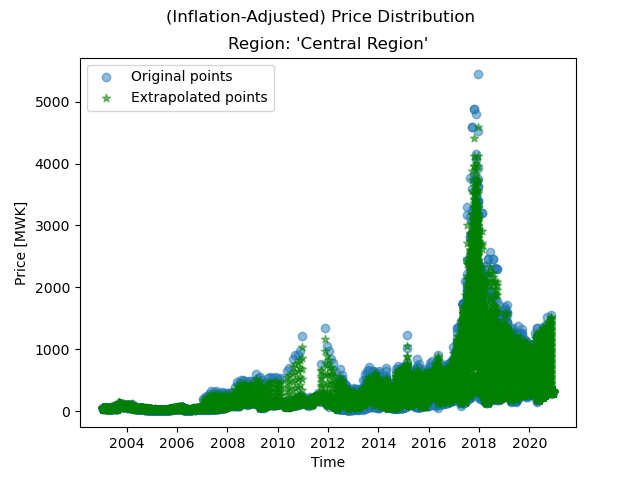
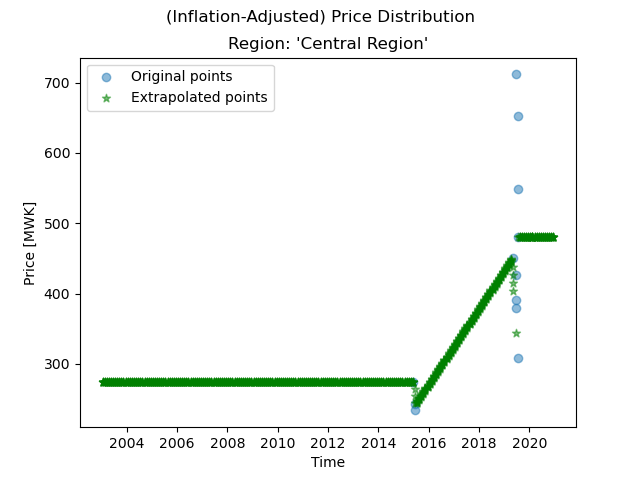
Preprocessing per commodity - but results not yet written combined as excel

diff --git a/src/dataset_creation.py b/src/dataset_creation.py
@@ -143,45 +143,68 @@ def create_dataset(country, dropped_commodities):
     # 65 (30%), 60 (27%, 30% also for central region)
     cut_off_percentile = 60
 
-    # for commodity in df_final.Commodity.unique():
+    df_commodities_dict = {}
+
+    for commodity in df_final.Commodity.unique():
+        # Extract df for commodity
+        df_final_commodity = df_final[df_final.Commodity == commodity]
+
+        # calculate summary statistics PER commodity
+        print(
+            "\n# ------------------------------------------------------------------------------------------------------\n"
+            f"# [{commodity}] PREPROC: Write summary statistics 2"
+            "\n# ------------------------------------------------------------------------------------------------------\n")
+        preproc.summary_stats_prices_droughts(df_final=df_final_commodity, excel_output_extension=f"-preproc-2-{commodity}")
+
+        print("\n# ------------------------------------------------------------------------------------------------------\n"
+              f"# [{commodity}] PREPROC: Cut off missing values after certain percentile"
+              "\n# ------------------------------------------------------------------------------------------------------\n")
+
+        # Cut all regions with missing >= cut_off_percentile of missing values
+        df_final_commodity = preproc.drop_missing_decile_per_region_prices(
+            path_excel_sum_stats=f"../output/{country}/summary-statistics/{country}-"
+                                 f"sum-stats-preproc-2-{commodity}.xlsx",
+            df_final=df_final_commodity,
+            cut_off_percentile=cut_off_percentile, excel_output_extension=f"-{cut_off_percentile}p")
+
+        print("\n# ------------------------------------------------------------------------------------------------------\n"
+              f"# [{commodity}] PREPROC: Write summary statistics 3"
+              "\n# ------------------------------------------------------------------------------------------------------\n")
+
+        # Write sum stats
+        preproc.summary_stats_prices_droughts(df_final=df_final_commodity, excel_output_extension=
+                f"-preproc-3-{cut_off_percentile}p-{commodity}")
+
+        print("\n# ------------------------------------------------------------------------------------------------------\n"
+              f"# [{commodity}] PREPROC: PHASE 2.2 (PRICES) - EXTRAPOLATION"
+              "\n# ------------------------------------------------------------------------------------------------------\n")
+
+        # EXTRAPOLATE REGIONAL PATTERNS
+        # doesn't extrapolate tails for interpolation method: cubic
+        df_final_commodity = preproc.extrapolate_prices_regional_patterns(df_final=df_final_commodity,
+                                                                          interpolation_method="linear")
+
+        # add result to dictionary
+        df_commodities_dict[commodity] = df_final_commodity
+
+        print("\n# ------------------------------------------------------------------------------------------------------\n"
+              f"# [{commodity}] PREPROC: Write summary statistics 4"
+              "\n# ------------------------------------------------------------------------------------------------------\n")
+
+        # Write sum stats
+        preproc.summary_stats_prices_droughts(df_final=df_final_commodity, excel_output_extension=f"-preproc-4"
+                                                                                                  f"-{cut_off_percentile}p"
+                                                                                                  f"-{commodity}")
 
     print("\n# ------------------------------------------------------------------------------------------------------\n"
-          "# PREPROC: Cut off missing values after certain percentile"
+          "# PREPROC: Combining all results as excel"
           "\n# ------------------------------------------------------------------------------------------------------\n")
-
-    # Cut all regions with missing >= cut_off_percentile of missing values
-    df_final = preproc.drop_missing_decile_per_region_prices(
-        path_excel_sum_stats=f"../output/{country}/summary-statistics/{country}-"
-                             f"sum-stats-preproc-2.xlsx",
-        df_final=df_final,
-        cut_off_percentile=cut_off_percentile, excel_output_extension=f"-{cut_off_percentile}p")
-
-    print("\n# ------------------------------------------------------------------------------------------------------\n"
-          "# PREPROC: Write summary statistics 3"
-          "\n# ------------------------------------------------------------------------------------------------------\n")
-
-    # Write sum stats
-    preproc.summary_stats_prices_droughts(df_final=df_final, excel_output_extension=f"-preproc-3-{cut_off_percentile}p")
-
-    print("\n# ------------------------------------------------------------------------------------------------------\n"
-          "# PREPROC: PHASE 2.2 (PRICES) - EXTRAPOLATION"
-          "\n# ------------------------------------------------------------------------------------------------------\n")
-
-    # EXTRAPOLATE REGIONAL PATTERNS
-    # doesn't extrapolate tails for interpolation method: cubic
-    df_final = preproc.extrapolate_prices_regional_patterns(df_final=df_final, interpolation_method="linear")
-
-    print("\n# ------------------------------------------------------------------------------------------------------\n"
-          "# PREPROC: Write summary statistics 4"
-          "\n# ------------------------------------------------------------------------------------------------------\n")
-
-    # Write sum stats
-    preproc.summary_stats_prices_droughts(df_final=df_final, excel_output_extension=f"-preproc-4-{cut_off_percentile}p")
 
     print("\n# ------------------------------------------------------------------------------------------------------\n"
           "# PREPROC: Writing Results as Excel"
           "\n# ------------------------------------------------------------------------------------------------------\n")
 
+    # TODO: change df_final: pass dictionary and write commodities in separate sheets in df_final
     preproc.write_preprocessing_results_to_excel(df_wfp=df_wfp, df_wfp_with_coords=df_wfp_with_coords,
                                                  df_spei=df_spei, df_final=df_final, df_drought=df_drought,
                                                  df_no_drought=df_no_drought)

diff --git a/src/preprocessing.py b/src/preprocessing.py
@@ -976,6 +976,12 @@ def extrapolate_prices_regional_patterns(df_final, interpolation_method="linear"
 
     country = df_final.Country.unique()[0]
 
+    commodity = df_final.Commodity.unique()[0]
+    if len(df_final.Commodity.unique()) > 1:
+        warnings.warn(f"Expected to extrapolate dataset only for one commodity, not {len(df_final.Commodity.unique())} "
+                      f"({df_final.Commodity.unique()})")
+        commodity += "+"
+
     if len(df_final.Currency.unique()) != 1:
         raise ValueError(f"More than one currency found in df: {df_final.Currency.unique()}.\n"
                          f"Cannot visualize prices without one common currency.\n"
@@ -1003,7 +1009,7 @@ def extrapolate_prices_regional_patterns(df_final, interpolation_method="linear"
         #     plt.scatter(df_region_market.TimeSpei, df_region_market.Price, label=market)
 
         plt.suptitle("(Inflation-Adjusted) Price Distribution")
-        plt.title(f"Region: '{region}'")
+        plt.title(f"Region: '{region}', Commodity: {commodity}")
         plt.xlabel("Time")
         plt.ylabel(f"Price [{currency}]")
 
@@ -1011,7 +1017,7 @@ def extrapolate_prices_regional_patterns(df_final, interpolation_method="linear"
         output_dir = f"../output/{country}/plots"
         if os.path.exists(output_dir) is False:
             os.makedirs(output_dir)
-        plt.savefig(f"{output_dir}/{region}-scatter-adj-prices.png")
+        plt.savefig(f"{output_dir}/{region}-scatter-adj-prices-{commodity}.png")
         # plt.show()
 
         # Extrapolate (limit_direction = to allow for extrapolation)
